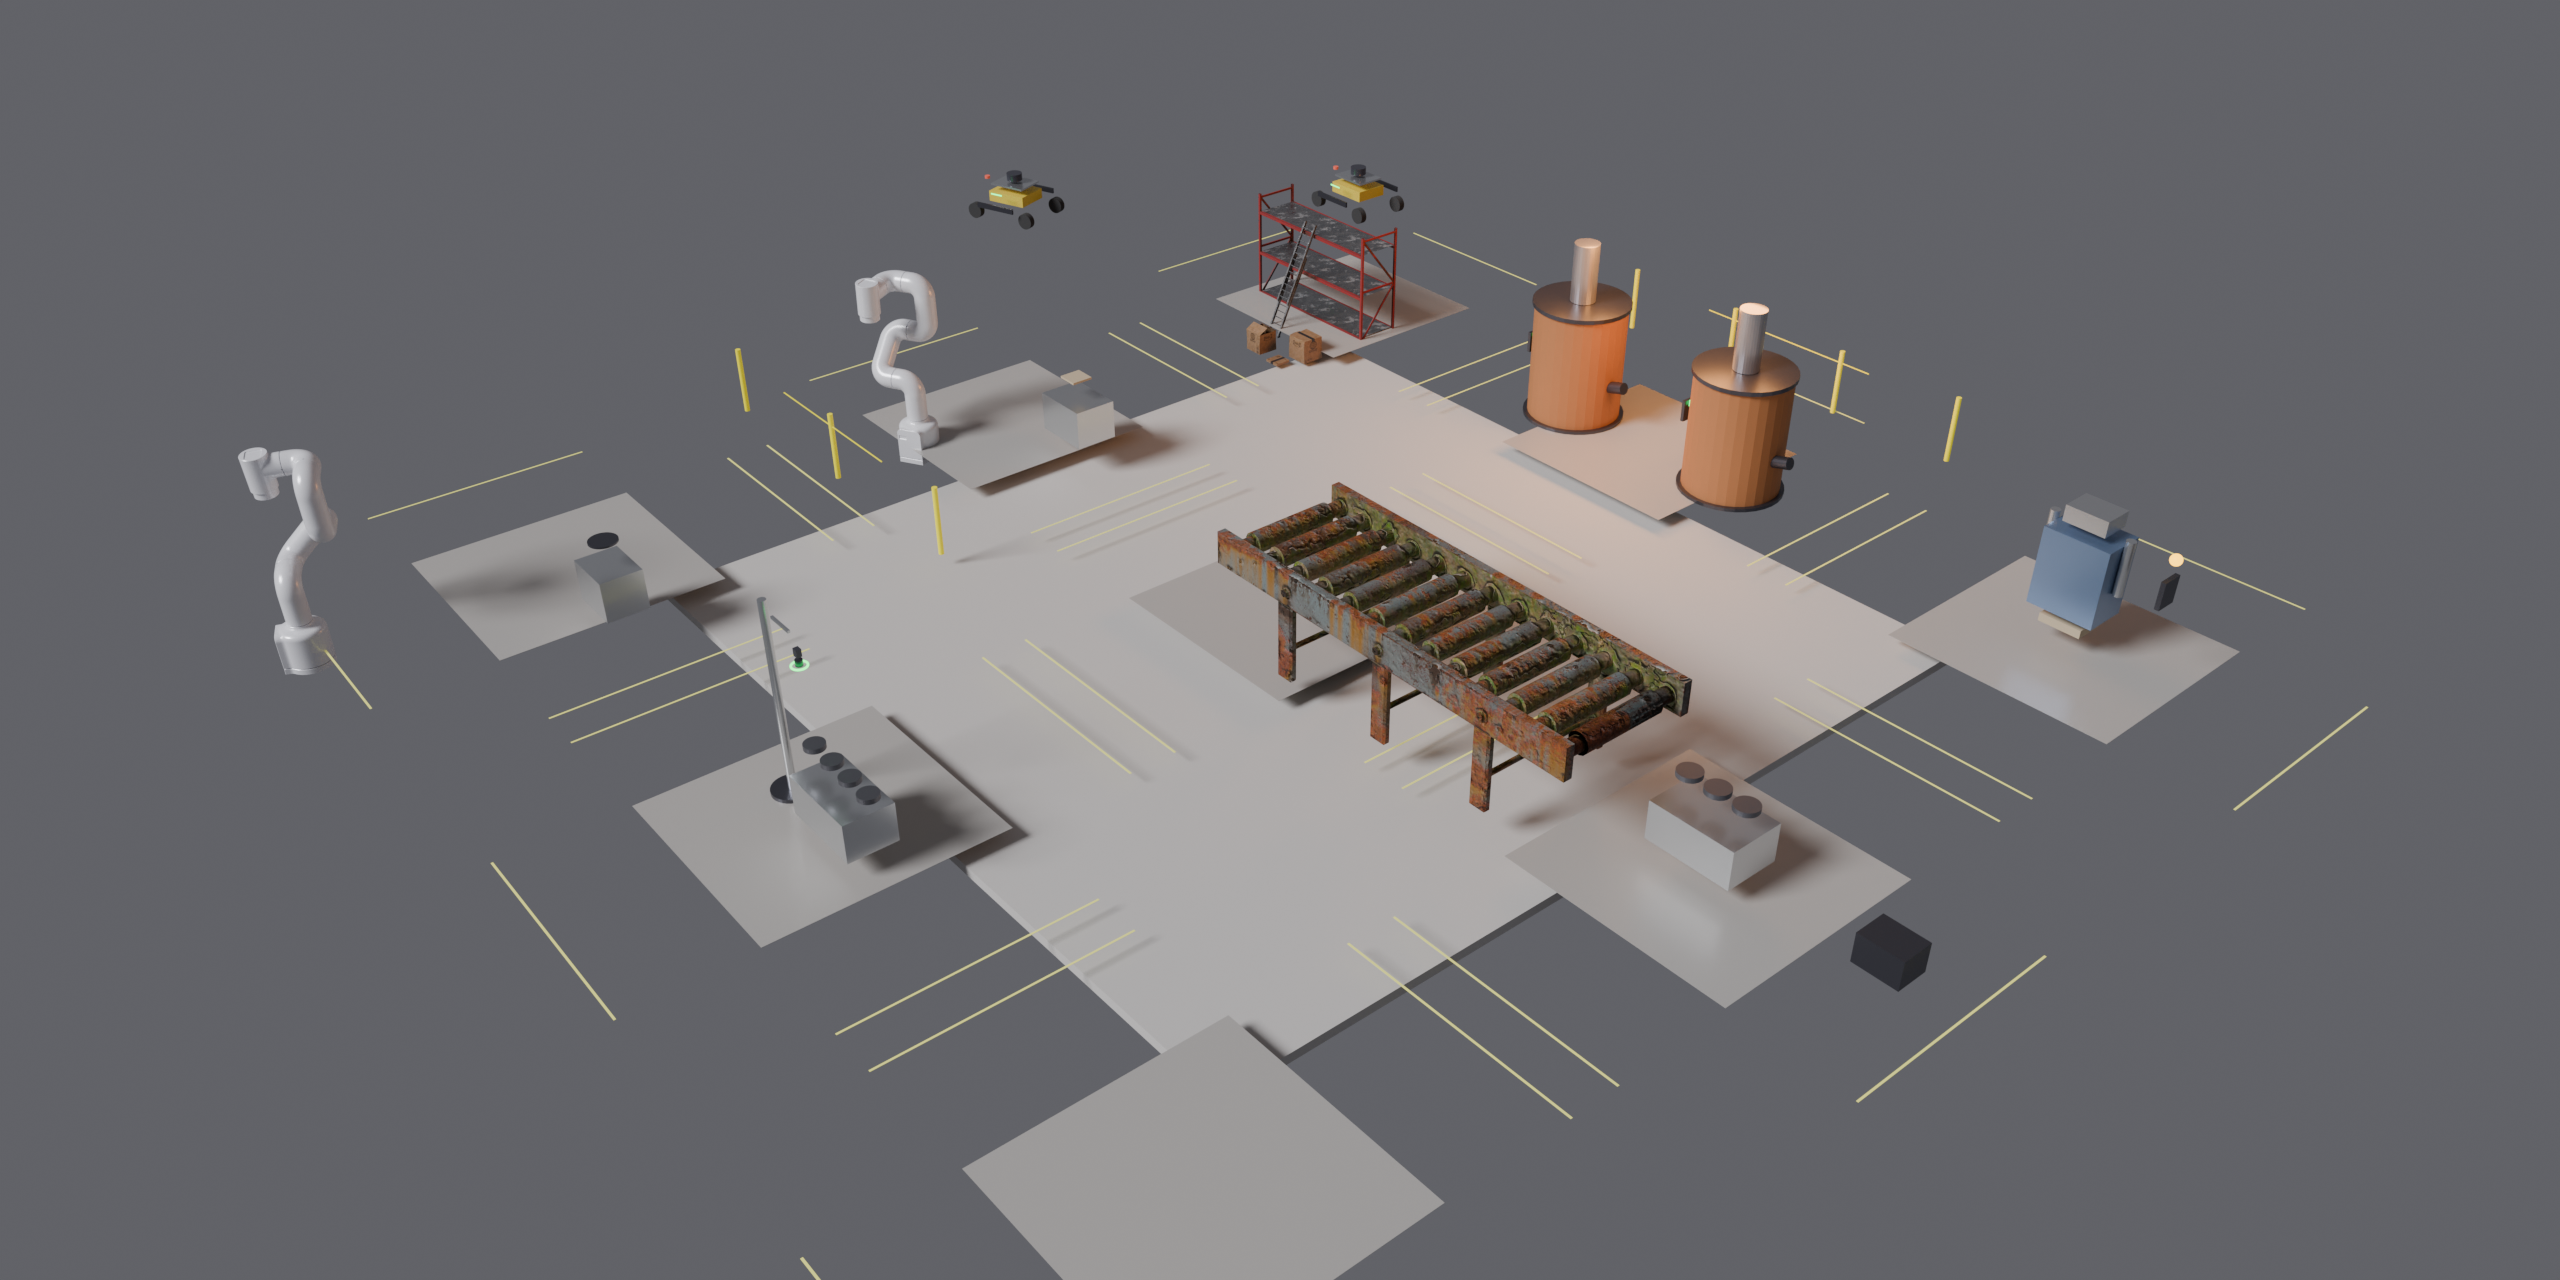
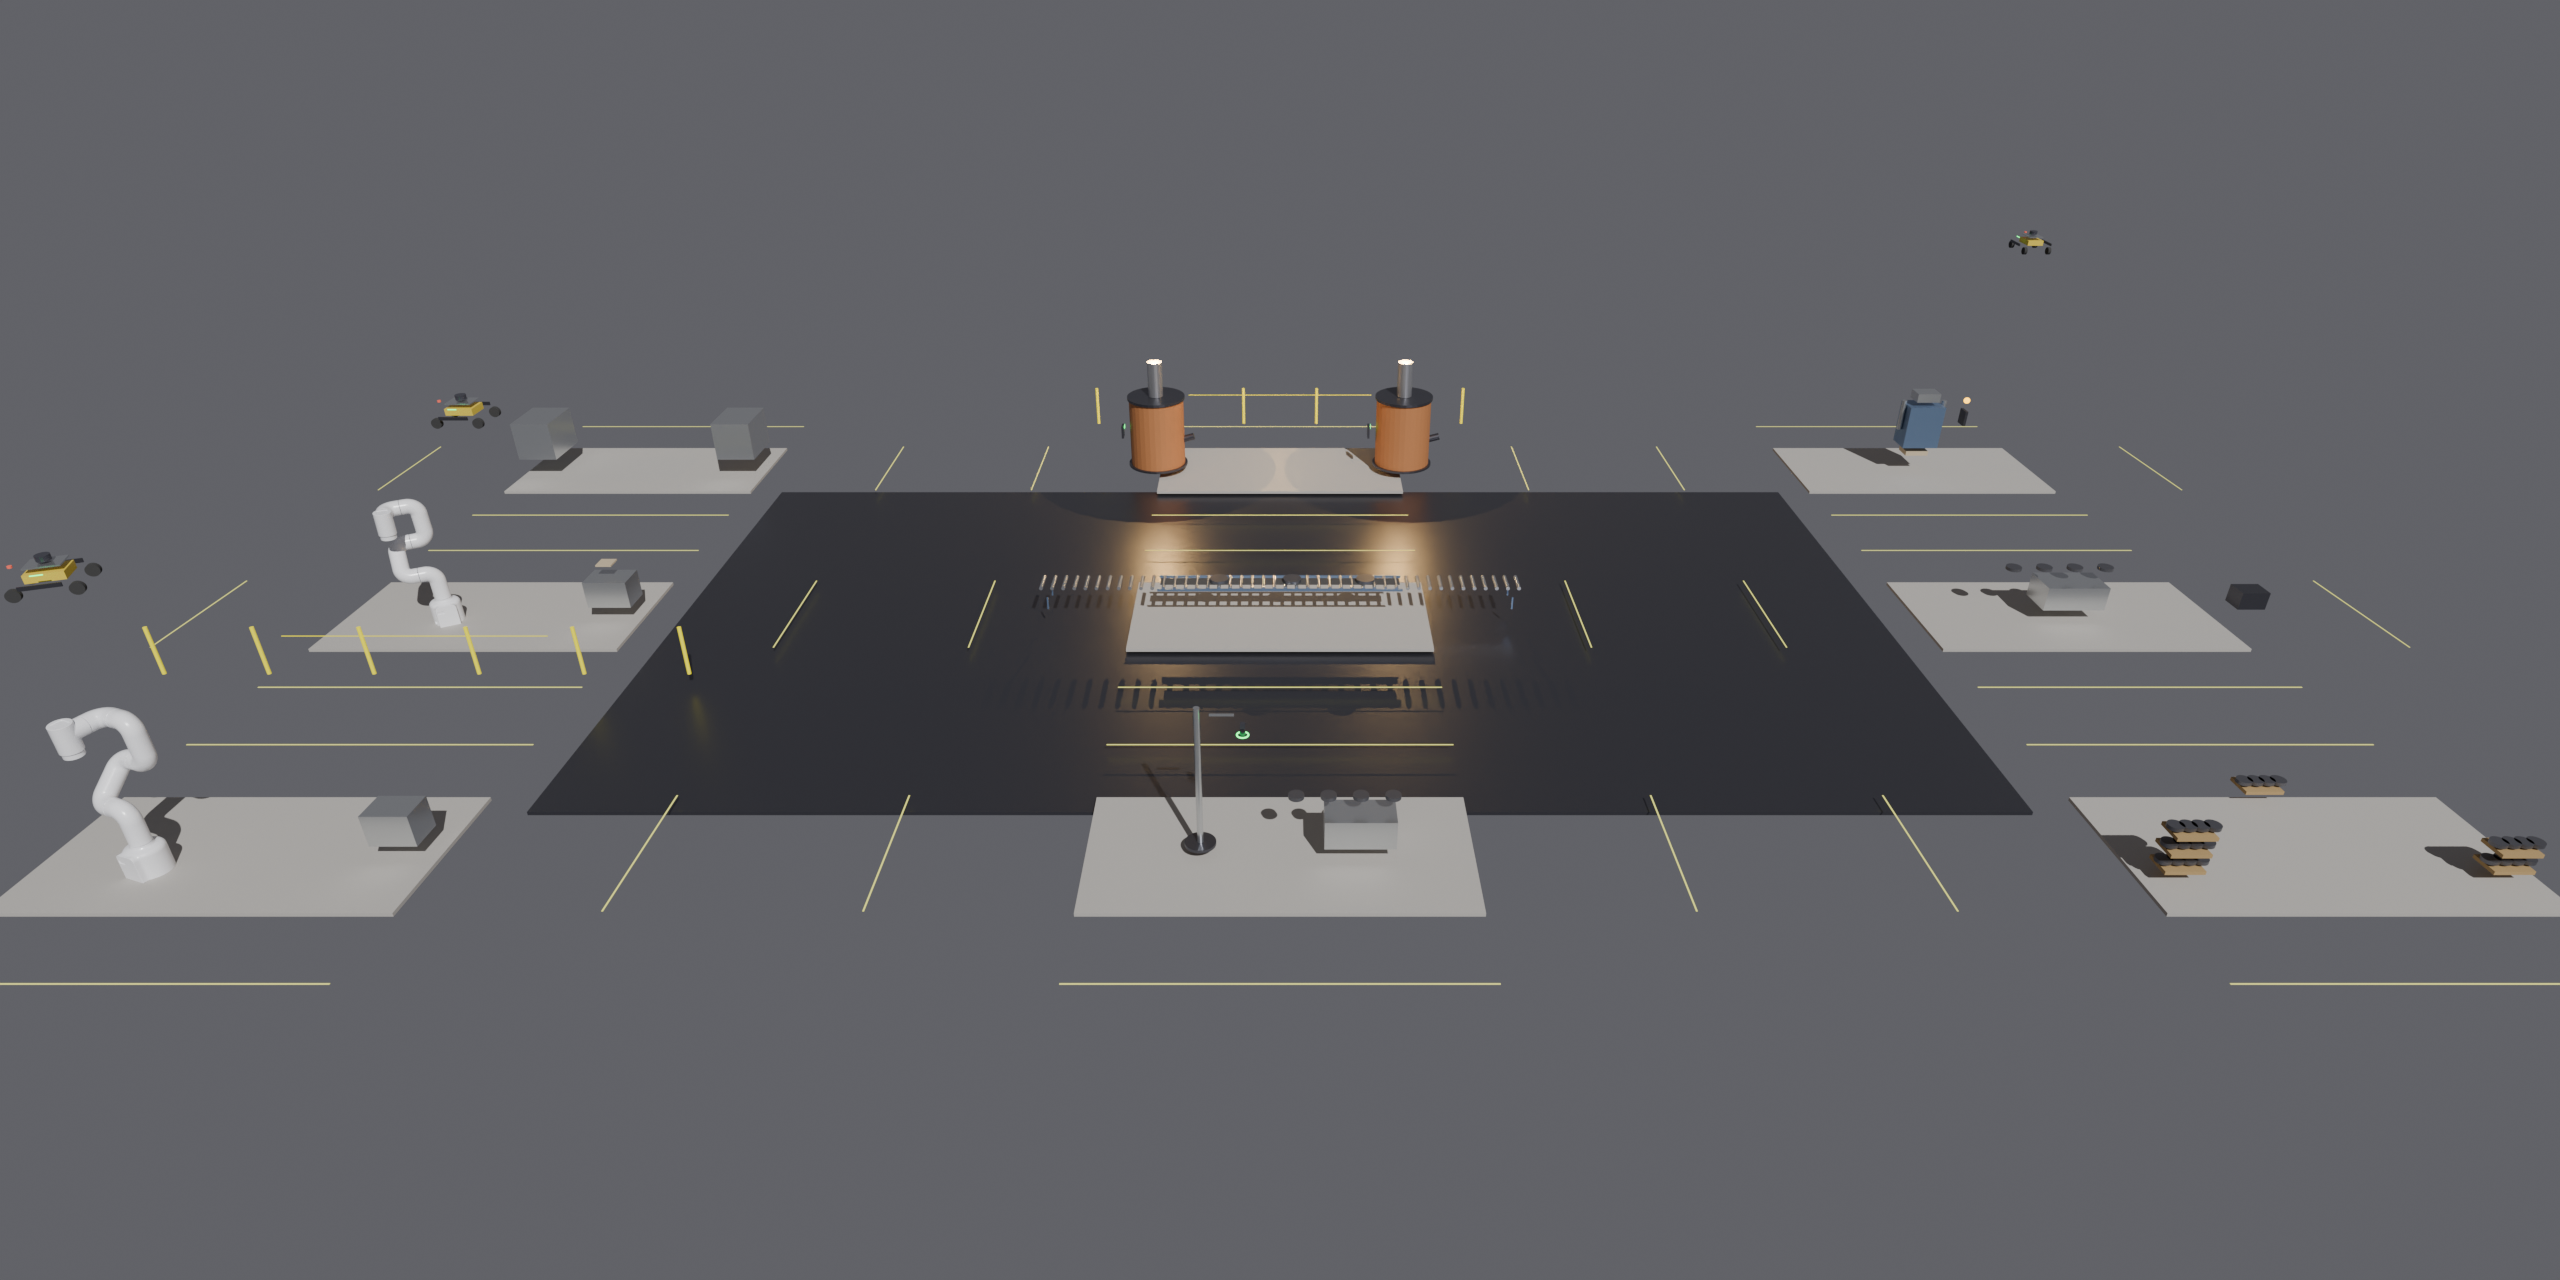
feat: 2:1 물리적 공장(36m×18m) 재구성 + 카메라 최적화
Blender:
- 공장 바닥 18×18m(정사각형) → 36×18m(2:1 직사각형) 재구성
- 구역 가로 크기 5m→10m, 갭 1.5m→3m으로 확대
- 카메라 (18,-30,11) 렌즈 20mm — 최대 크기 프레이밍
- Sketchfab 컨베이어/선반/팔레트 재배치
- MyCobot280 CAD 모델 2대 재배치

프론트엔드:
- FactoryMap 핫스팟/AMR/COBOT 좌표 전면 재계산
- AMR 복도 경로 새 2:1 그리드에 맞춰 업데이트

diff --git a/src/components/FactoryMap.tsx b/src/components/FactoryMap.tsx
@@ -37,85 +37,73 @@ const ANIMATION_STYLES = `
     100% { transform: translateZ(30px) scale(1); }
   }
 
-  /* === AMR 이동 애니메이션 — 복도 전용 경로 (물리 법칙 준수) === */
+  /* === AMR 이동 애니메이션 — 복도 전용 경로 === */
 
   /*
-   * 투영 좌표: 카메라(21,-19,11), 렌즈28mm 기준
+   * 카메라 (26,-9,15), 렌즈24mm, 탈형→주조 방향 뷰
+   * 직교 그리드: 왼=Row3, 중=Row2, 우=Row1 / 위=Col1, 아래=Col3
    *
    * 구역 중심:
-   *   원자재(52,25)  용해(67,39)  주형(89,60)
-   *   주조(36,36)    냉각(50,56)  탈형(72,86)
-   *   후처리(14,52)  검사(25,79)  적재(44,127-화면밖)
+   *   원자재(66,42)  용해(69,63)  주형(75,96)
+   *   주조(50,42)    냉각(50,63)  탈형(50,96)
+   *   후처리(34,42)  검사(31,63)  적재(25,96)
    *
-   * 복도 교차점 (AMR 회전 노드):
-   *   N1=(51,38)  N2=(69,57)
-   *   N3=(32,54)  N4=(48,82)
+   * 복도 교차점:
+   *   N1=(59,51)  N2=(61,77)
+   *   N3=(41,51)  N4=(39,77)
    *
-   * 물리 규칙:
-   *   - AMR은 구역 내부를 절대 가로지르지 않음
-   *   - 구역 사이 1.5m 갭(복도) 중심선만 이동
-   *   - 교차점(N1~N4)에서만 방향 전환
-   *   - 구역 가장자리에서 적재/하역
+   * 복도 방향: V=세로(상하), H=가로(좌우)
    */
 
-  /* AMR-001: 원자재(1,1) → V12 복도 → 용해(2,1) 왕복
-     구간: 원자재 →edge(57.5,30) → 복도 → 용해 ←edge(61,33)
-     짧은 인접 구역 이동 — V12 복도만 사용 */
+  /* AMR-001: 원자재(25,37)→용해(50,37) — H 복도 가로 이동 */
   @keyframes render-amr-patrol-1 {
-    0%   { left: 57.5%; top: 30%; }  /* 원자재(1,1) 오른쪽 가장자리 — 적재 */
-    10%  { left: 57.5%; top: 30%; }  /* 적재 대기 */
-    18%  { left: 59%; top: 31%; }    /* V12 복도 진입 */
-    32%  { left: 61%; top: 33%; }    /* 용해(2,1) 왼쪽 가장자리 도착 */
-    48%  { left: 61%; top: 33%; }    /* 하역 대기 */
-    56%  { left: 59%; top: 31%; }    /* V12 복도 복귀 */
-    70%  { left: 57.5%; top: 30%; }  /* 원자재 가장자리 복귀 */
-    100% { left: 57.5%; top: 30%; }  /* 다음 배치 적재 대기 */
+    0%   { left: 30%; top: 37%; }
+    10%  { left: 30%; top: 37%; }
+    25%  { left: 38%; top: 37%; }
+    40%  { left: 46%; top: 37%; }
+    55%  { left: 46%; top: 37%; }
+    70%  { left: 40%; top: 37%; }
+    85%  { left: 33%; top: 37%; }
+    100% { left: 30%; top: 37%; }
   }
 
-  /* AMR-002: 탈형(3,2) → 복도경유 → 후처리(1,3) → 검사(2,3) → 복귀
-     경로: 탈형←edge → V23↗N2 → H12↖N1 → V12↙N3 → 후처리→edge
-           후처리→edge → V12↘ → 검사←edge
-           검사↑edge → N3↗ → N1↗ → N2↘ → 탈형←edge
-     복도 교차점 4개를 모두 경유하는 긴 순환 경로 */
+  /* AMR-002: 탈형(81,48)→후처리(10,67)→검사(50,67)→복귀
+     N2(64,42)→N1(36,42)→N3(33,56)→N4(67,56) 복도 경유 */
   @keyframes render-amr-patrol-2 {
-    0%   { left: 62%; top: 72%; }    /* 탈형(3,2) 왼쪽 가장자리 — 주물 적재 */
-    4%   { left: 62%; top: 72%; }    /* 적재 대기 */
-    8%   { left: 65%; top: 65%; }    /* V23 복도 북행 ↗ */
-    13%  { left: 69%; top: 57%; }    /* N2 교차점 도착 */
-    14%  { left: 69%; top: 57%; }    /* 방향 전환 */
-    20%  { left: 60%; top: 47%; }    /* H12 복도 서행 ↖ */
-    25%  { left: 51%; top: 38%; }    /* N1 교차점 도착 */
-    26%  { left: 51%; top: 38%; }    /* 방향 전환 */
-    33%  { left: 41%; top: 46%; }    /* V12 복도 남행 ↙ */
-    38%  { left: 32%; top: 54%; }    /* N3 교차점 도착 */
-    39%  { left: 32%; top: 54%; }    /* 방향 전환 */
-    44%  { left: 18%; top: 61%; }    /* 후처리(1,3) 오른쪽 가장자리 도착 */
-    52%  { left: 18%; top: 61%; }    /* 후처리 대기 */
-    55%  { left: 19%; top: 64%; }    /* V12 복도 진입 ↘ */
-    59%  { left: 20%; top: 67%; }    /* 검사(2,3) 왼쪽 가장자리 도착 */
-    65%  { left: 20%; top: 67%; }    /* 검사 인계 대기 */
-    /* 복귀: 검사 → N3 → N1 → N2 → 탈형 */
-    69%  { left: 32%; top: 54%; }    /* N3 교차점 (↗ 북행) */
-    74%  { left: 51%; top: 38%; }    /* N1 교차점 (↗ 동행) */
-    79%  { left: 69%; top: 57%; }    /* N2 교차점 (↘ 남행) */
-    84%  { left: 65%; top: 63%; }    /* V23 복도 남행 ↙ */
-    90%  { left: 62%; top: 72%; }    /* 탈형 가장자리 복귀 */
-    100% { left: 62%; top: 72%; }    /* 다음 배치 대기 */
+    0%   { left: 81%; top: 52%; }
+    4%   { left: 81%; top: 52%; }
+    10%  { left: 72%; top: 48%; }
+    15%  { left: 64%; top: 42%; }
+    16%  { left: 64%; top: 42%; }
+    22%  { left: 50%; top: 42%; }
+    28%  { left: 36%; top: 42%; }
+    29%  { left: 36%; top: 42%; }
+    36%  { left: 35%; top: 49%; }
+    42%  { left: 33%; top: 56%; }
+    43%  { left: 33%; top: 56%; }
+    48%  { left: 16%; top: 63%; }
+    55%  { left: 16%; top: 63%; }
+    59%  { left: 33%; top: 63%; }
+    63%  { left: 50%; top: 63%; }
+    69%  { left: 50%; top: 63%; }
+    74%  { left: 58%; top: 60%; }
+    79%  { left: 67%; top: 56%; }
+    85%  { left: 68%; top: 50%; }
+    91%  { left: 73%; top: 46%; }
+    96%  { left: 78%; top: 50%; }
+    100% { left: 81%; top: 52%; }
   }
 
-  /* AMR-003: 검사(2,3) → V23 복도 → 적재(3,3) 방향 왕복
-     경로: 검사→edge → N4 교차점 → 적재 방향(화면 하단)
-     적재(3,3)가 화면 밖이므로 화면 하단까지만 표시 */
+  /* AMR-003: 검사(50,67)→적재(90,67) — H 복도 가로 이동 */
   @keyframes render-amr-patrol-3 {
-    0%   { left: 31%; top: 79%; }    /* 검사(2,3) 오른쪽 가장자리 — 완제품 적재 */
-    10%  { left: 31%; top: 79%; }    /* 적재 대기 */
-    20%  { left: 36%; top: 80%; }    /* V23 복도 진입 (↘) */
-    35%  { left: 42%; top: 82%; }    /* N4 교차점 경유 */
-    50%  { left: 48%; top: 86%; }    /* 적재/출고 방향 (화면 하단) */
-    65%  { left: 48%; top: 86%; }    /* 하역 대기 */
-    75%  { left: 42%; top: 83%; }    /* 복귀 (↖) */
-    88%  { left: 34%; top: 80%; }    /* 복도 복귀 */
-    100% { left: 31%; top: 79%; }    /* 검사 가장자리 복귀 */
+    0%   { left: 55%; top: 67%; }
+    10%  { left: 55%; top: 67%; }
+    25%  { left: 68%; top: 67%; }
+    40%  { left: 85%; top: 67%; }
+    60%  { left: 85%; top: 67%; }
+    75%  { left: 70%; top: 67%; }
+    90%  { left: 58%; top: 67%; }
+    100% { left: 55%; top: 67%; }
   }
 
   @keyframes render-amr-charge {
@@ -683,18 +671,21 @@ function Legend() {
 // ----------------------------------------------------------------
 
 // 3D 렌더 이미지 위 인터랙티브 핫스팟 좌표 (이미지 비율 기준 %)
-// 카메라 (21,-19,11), 타겟 (9,-9,0.8), 렌즈 28mm 기준 수학적 투영
-// 행(Row) 이동 = 이미지 ↘ 대각선, 열(Col) 이동 = 이미지 ↙ 대각선
+// 카메라 (26,-9,15), 타겟 (6,-9,0.5), 렌즈 24mm
+// 탈형→주조 방향 뷰: 직교 그리드 (Row=좌우, Col=상하)
+// 왼쪽=Row3, 중앙=Row2, 오른쪽=Row1 / 위=Col1, 아래=Col3
+// 카메라 (18,-30,11), 타겟 (18,-7,-1.5), 렌즈 20mm — 2:1 공장 최대 크기 뷰
+// 직교 그리드: 왼=Col1, 중=Col2, 우=Col3 / 위=Row1, 아래=Row3
 const HOTSPOTS: { zoneId: string; x: number; y: number; w: number; h: number }[] = [
-  { zoneId: "raw-material", x: 46, y: 19, w: 12, h: 11 },  // 원자재 (1,1) center≈(52,25)
-  { zoneId: "melting",      x: 60, y: 31, w: 14, h: 14 },  // 용해   (2,1) center≈(67,39)
-  { zoneId: "mold",         x: 79, y: 49, w: 14, h: 16 },  // 주형   (3,1) center≈(89,60)
-  { zoneId: "casting",      x: 30, y: 28, w: 12, h: 14 },  // 주조   (1,2) center≈(36,36)
-  { zoneId: "cooling",      x: 42, y: 46, w: 15, h: 16 },  // 냉각   (2,2) center≈(50,56)
-  { zoneId: "demolding",    x: 62, y: 70, w: 16, h: 18 },  // 탈형   (3,2) center≈(72,86)
-  { zoneId: "post-process", x: 7,  y: 42, w: 14, h: 16 },  // 후처리 (1,3) center≈(14,52)
-  { zoneId: "inspection",   x: 16, y: 64, w: 16, h: 18 },  // 검사   (2,3) center≈(25,79)
-  { zoneId: "loading",      x: 35, y: 82, w: 16, h: 16 },  // 적재   (3,3) 하단 부분만 표시
+  { zoneId: "raw-material", x: 18, y: 29, w: 16, h: 14 },  // 원자재 (1,1) center≈(25,37)
+  { zoneId: "melting",      x: 42, y: 29, w: 16, h: 14 },  // 용해   (2,1) center≈(50,37)
+  { zoneId: "mold",         x: 67, y: 29, w: 16, h: 14 },  // 주형   (3,1) center≈(75,37)
+  { zoneId: "casting",      x: 12, y: 41, w: 16, h: 12 },  // 주조   (1,2) center≈(20,48)
+  { zoneId: "cooling",      x: 42, y: 41, w: 16, h: 12 },  // 냉각   (2,2) center≈(50,48)
+  { zoneId: "demolding",    x: 73, y: 41, w: 16, h: 12 },  // 탈형   (3,2) center≈(81,48)
+  { zoneId: "post-process", x: 3,  y: 59, w: 16, h: 14 },  // 후처리 (1,3) center≈(10,67)
+  { zoneId: "inspection",   x: 42, y: 59, w: 16, h: 14 },  // 검사   (2,3) center≈(50,67)
+  { zoneId: "loading",      x: 83, y: 59, w: 16, h: 14 },  // 적재   (3,3) center≈(90,67)
 ];
 
 // JetCobot280 오버레이 컴포넌트 (3D 렌더 위)
@@ -1031,23 +1022,18 @@ function Render3DView({
         </div>
       ))}
 
-      {/* === JetCobot280 2대 (투영 좌표 기반) === */}
-      {/* COBOT-001: 주조 구역 (1,2) center≈(36,36) */}
-      <CobotOverlay id="COBOT-001" label="COBOT-001" x={34} y={33} />
-      {/* COBOT-002: 후처리 구역 (1,3) center≈(14,52) */}
-      <CobotOverlay id="COBOT-002" label="COBOT-002" x={12} y={49} />
+      {/* === JetCobot280 2대 === */}
+      <CobotOverlay id="COBOT-001" label="COBOT-001" x={17} y={44} />
+      <CobotOverlay id="COBOT-002" label="COBOT-002" x={7} y={62} />
 
-      {/* === AMR 3대 — 복도 전용 경로 (구역 내부 진입 불가) === */}
-      {/* AMR-001: V12 복도에서 원자재↔용해 왕복 */}
-      <AMROverlay id="AMR-001" label="AMR-001" x={57.5} y={30}
+      {/* === AMR 3대 === */}
+      <AMROverlay id="AMR-001" label="AMR-001" x={30} y={37}
                   status="moving" animationName="render-amr-patrol-1"
                   task="원자재→용해" animationDuration={10} />
-      {/* AMR-002: N1→N2→N3 교차점 경유 탈형→후처리→검사 순환 */}
-      <AMROverlay id="AMR-002" label="AMR-002" x={62} y={72}
+      <AMROverlay id="AMR-002" label="AMR-002" x={81} y={52}
                   status="moving" animationName="render-amr-patrol-2"
                   task="탈형→후처리→검사" animationDuration={24} />
-      {/* AMR-003: V23 복도에서 검사→적재 왕복 */}
-      <AMROverlay id="AMR-003" label="AMR-003" x={31} y={79}
+      <AMROverlay id="AMR-003" label="AMR-003" x={55} y={67}
                   status="moving" animationName="render-amr-patrol-3"
                   task="검사→출고" animationDuration={10} />
 
